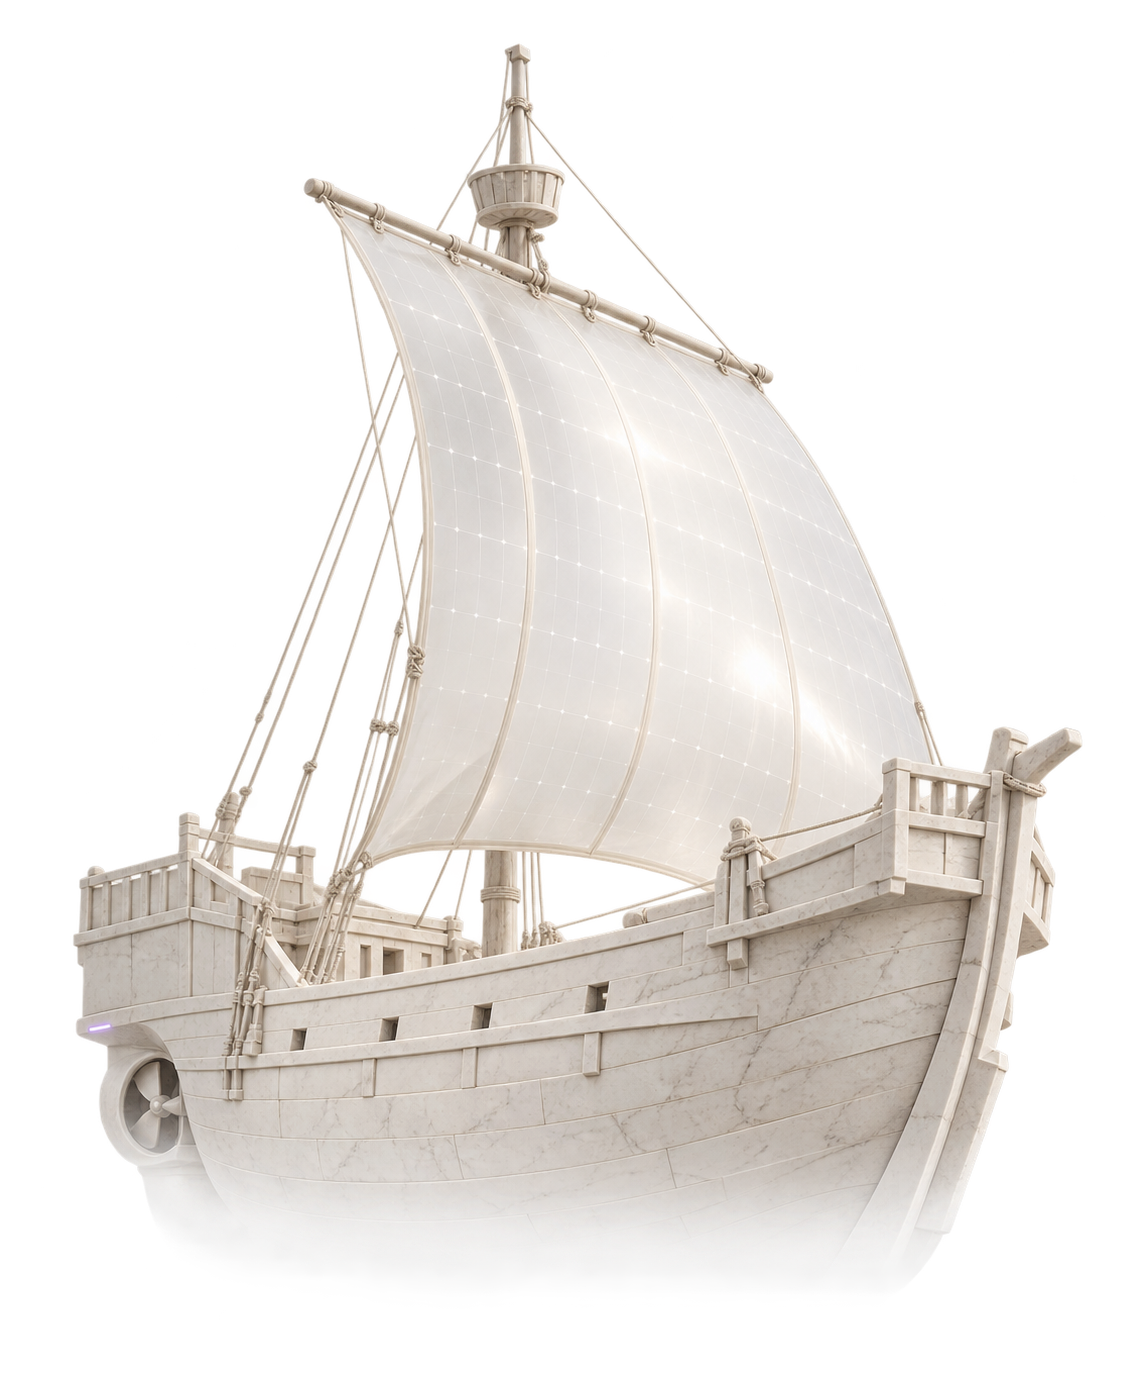
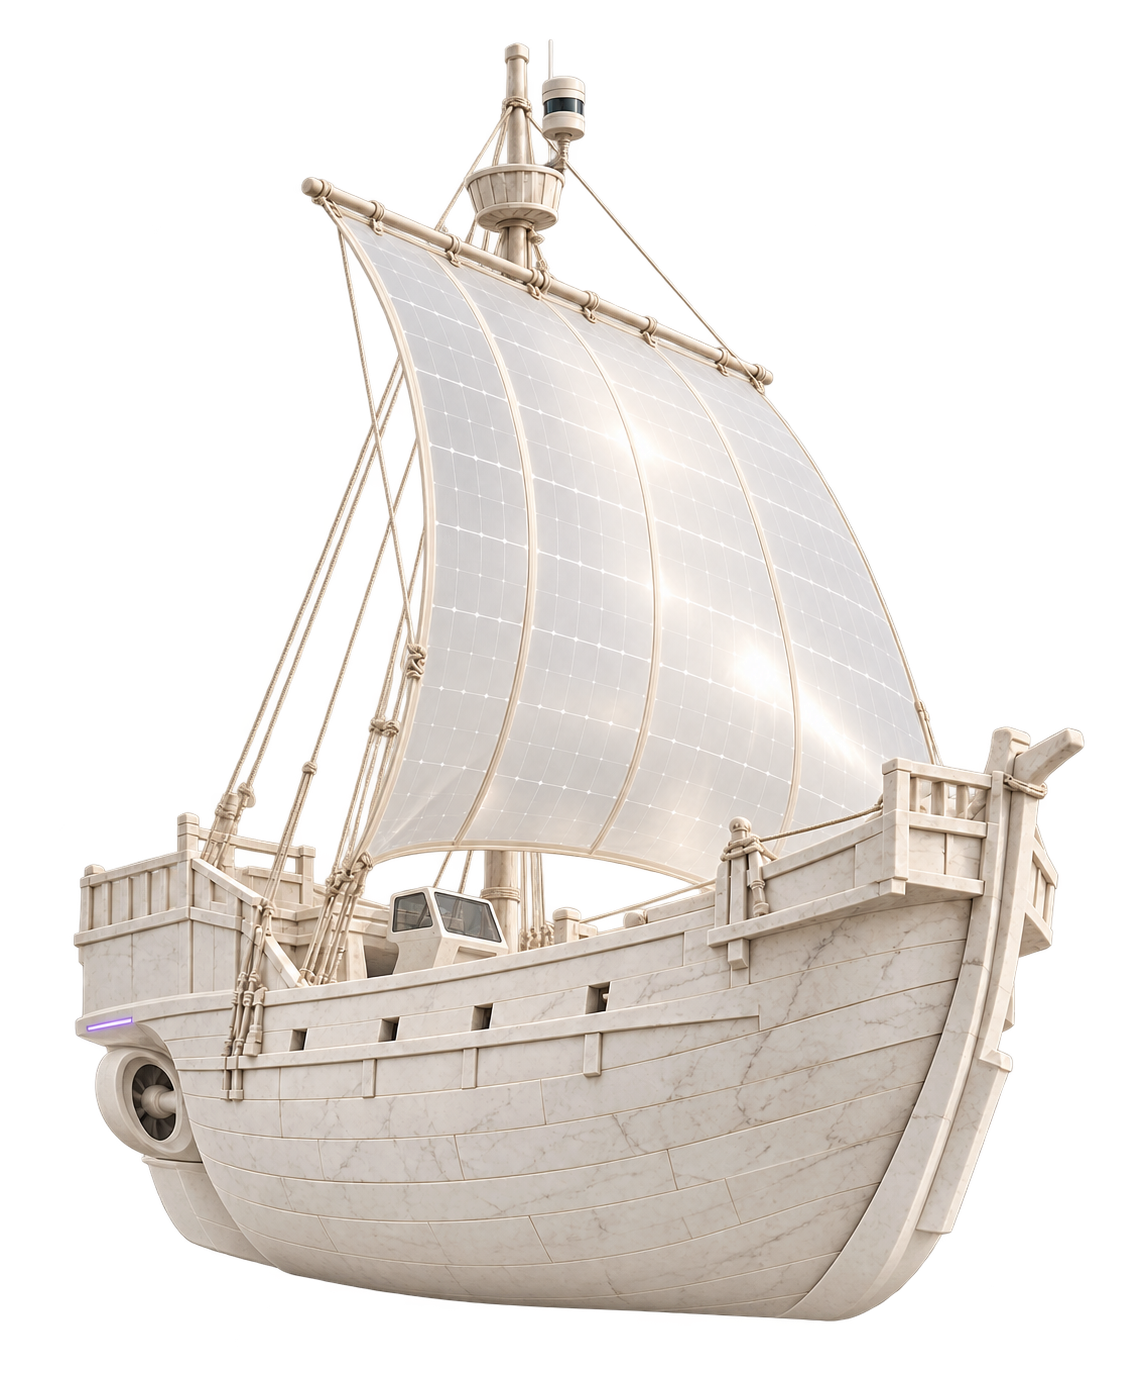
mini fixtures including saltbag and mobile

diff --git a/src/data/advisoryBoard.ts b/src/data/advisoryBoard.ts
@@ -47,6 +47,14 @@ export const advisoryMembers: AdvisoryMember[] = [
     image: 'https://www.leuphana.de/fileadmin/_processed_/c/0/csm_wenzel_matthias_87f76fcb0c.jpg',
   },
   {
+    name: 'Prof. Dr. Pauline Reinecke',
+    title: 'Juniorprofessorin für Betriebswirtschaftslehre, insbesondere Strategic Entrepreneurship',
+    department: 'Leuphana Universität Lüneburg',
+    boardRole: 'Advisory Board Member',
+    bio: 'Prof. Reinecke forscht zu Strategic Entrepreneurship und der Frage, wie unternehmerisches Handeln zur Lösung komplexer gesellschaftlicher Herausforderungen beitragen kann. Ihre Arbeit verbindet Strategie, Organisation und Innovation – unter anderem mit Blick auf soziale Unternehmen, digitale Plattformen und nachhaltige Geschäftsmodelle.',
+    image: 'https://www.leuphana.de/fileadmin/_processed_/0/d/csm_reinecke_pauline_795-79587.690x690px.WEB_955b4970ce.jpg',
+  },
+  {
     name: 'Dr. Markus Lemmens',
     title: 'Chief Communication Officer der Leuphana Universität',
     department: 'Leuphana Universität Lüneburg',
